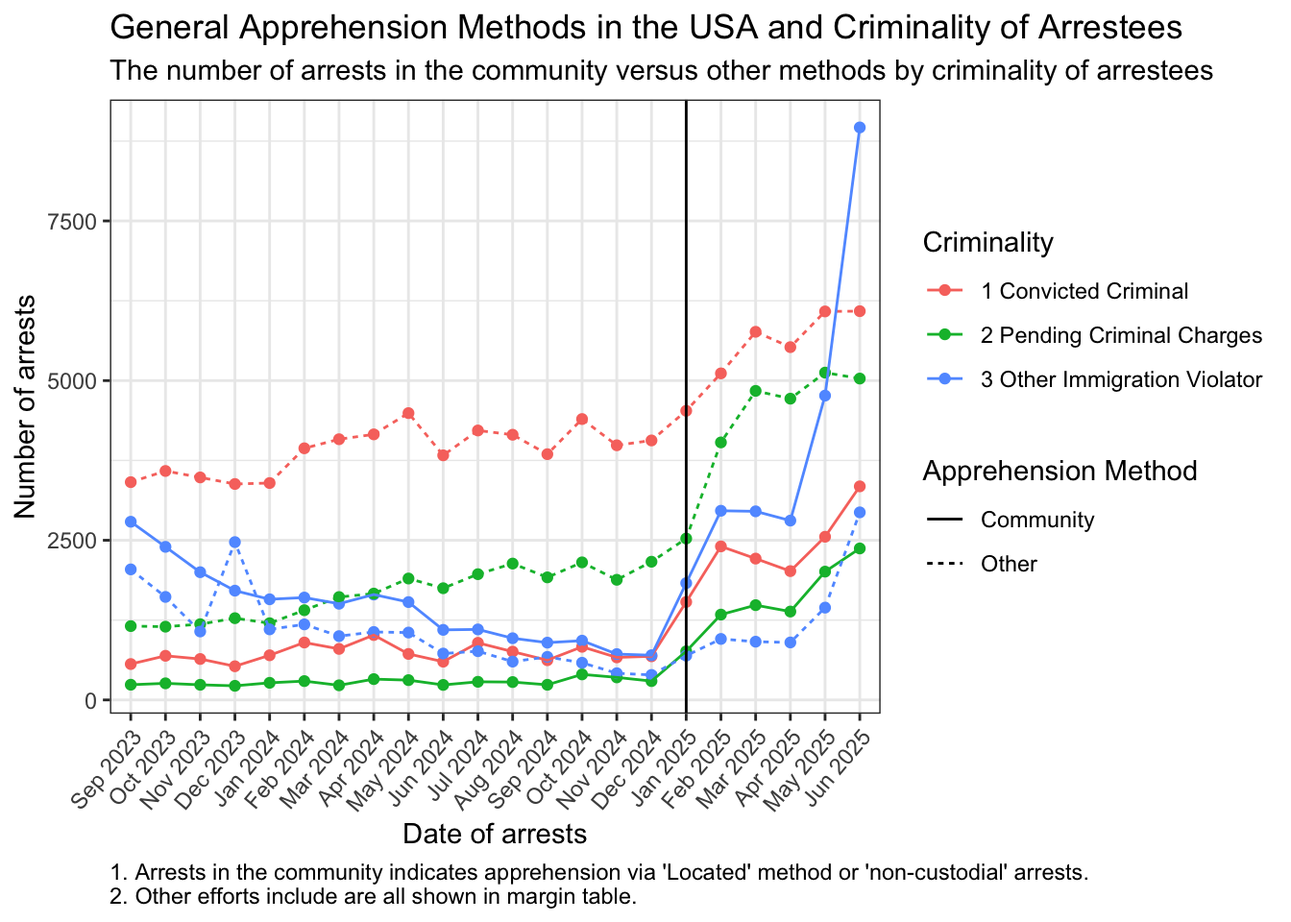
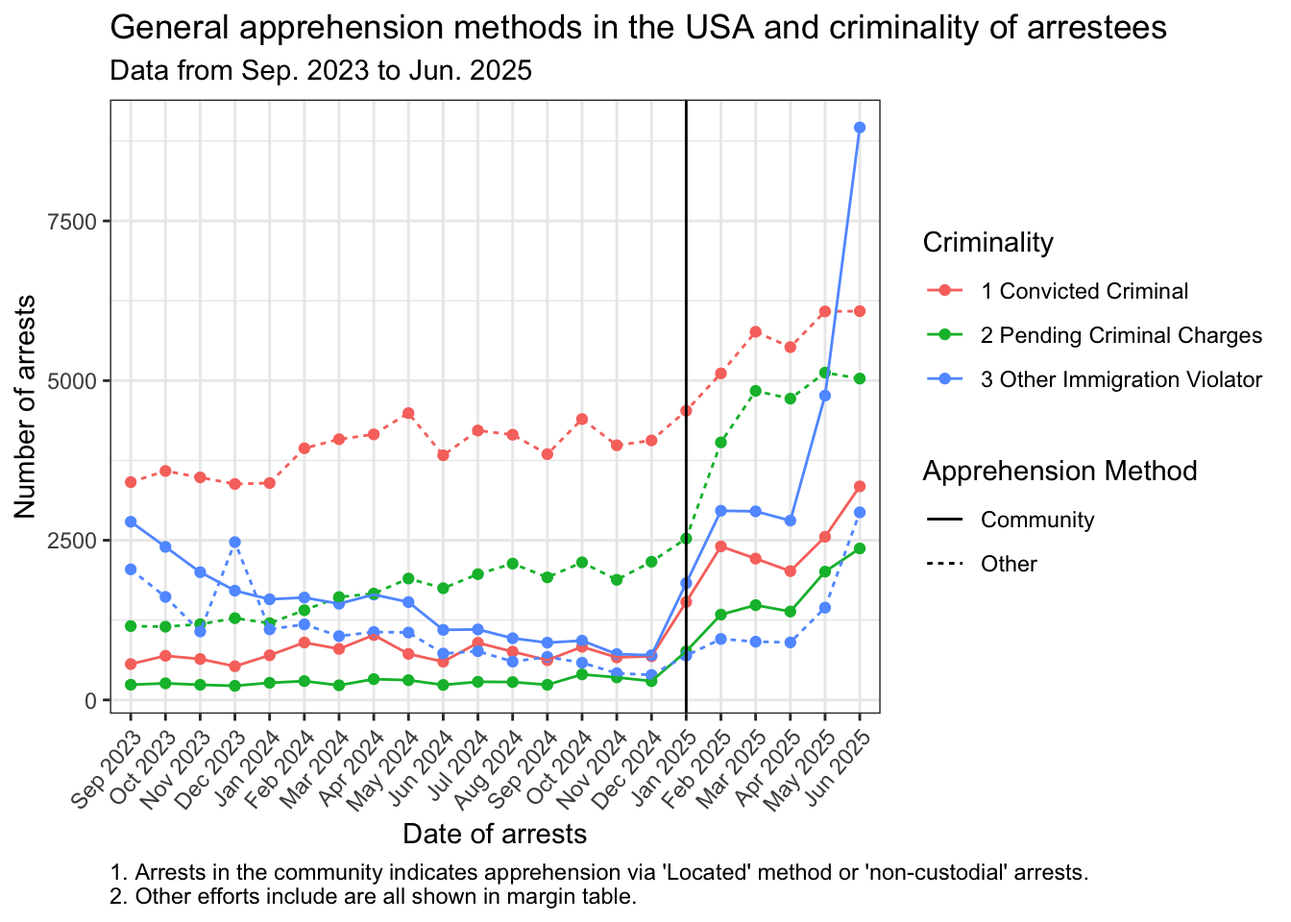
publishing

Changed region(s): [[0.0625, 0.0, 0.9375, 0.0938]]

diff --git a/docs/data-analysis.html b/docs/data-analysis.html
@@ -55,7 +55,27 @@ div.sourceCode
 @media screen {
 pre > code.sourceCode > span > a:first-child::before { text-decoration: underline; }
 }
-</style>
+/* CSS for citations */
+div.csl-bib-body { }
+div.csl-entry {
+  clear: both;
+  margin-bottom: 0em;
+}
+.hanging-indent div.csl-entry {
+  margin-left:2em;
+  text-indent:-2em;
+}
+div.csl-left-margin {
+  min-width:2em;
+  float:left;
+}
+div.csl-right-inline {
+  margin-left:2em;
+  padding-left:1em;
+}
+div.csl-indent {
+  margin-left: 2em;
+}</style>
 
 
 <script src="site_libs/quarto-nav/quarto-nav.js"></script>
@@ -195,8 +215,8 @@ pre > code.sourceCode > span > a:first-child::before { text-decoration: underlin
 
 <section id="introduction" class="level1">
 <h1>Introduction</h1>
-<p>In this analysis, I will use data pertaining to ICE Arrests from Sep.&nbsp;2023 to late Jul.&nbsp;2025. The question I aim to answer is if recent arrests (January 2025 – present)target undocumented individuals with a criminal history, and how they compare to arrests from before January 2025. The target audience is the general public, with anyone interested in seeing how ICE is operating under the current presidential adminstration in comparison to the last one.</p>
-<p>The data comes from <a href="https://deportationdata.org/data/ice.html">The Deportation Data Project</a> and its data dictionary can be found <a href="https://deportationdata.org/docs/ice/codebook.html">here</a>.</p>
+<p>In this analysis, I will use data pertaining to ICE Arrests from Sep.&nbsp;2023 to late Jul.&nbsp;2025. The question I aim to answer is if recent arrests (January 2025 – present) target undocumented individuals with a criminal history, and how they compare to arrests from before January 2025. The target audience is the general public, with anyone interested in seeing how ICE is operating under the current presidential adminstration in comparison to the last one.</p>
+<p>The data comes from the Deportation Data Project <span class="citation" data-cites="deportationdataproject2025">(<a href="#ref-deportationdataproject2025" role="doc-biblioref">Project 2025a</a>)</span>, and its data dictionary can be found <span class="citation" data-cites="deportationdata_ice_codebook">(<a href="#ref-deportationdata_ice_codebook" role="doc-biblioref">Project 2025b</a>)</span>.</p>
 <div class="cell">
 <div class="cell-output-display">
 <div>
@@ -206,6 +226,7 @@ pre > code.sourceCode > span > a:first-child::before { text-decoration: underlin
 </div>
 </div>
 </div>
+<p><span class="citation" data-cites="instagram_author_2025">(Photo by <a href="#ref-instagram_author_2025" role="doc-biblioref">coloralamexicana 2025</a>)</span></p>
 </section>
 <section id="data-wrangling" class="level1">
 <h1>Data Wrangling</h1>
@@ -287,6 +308,7 @@ Note
 <h1>Data Visualization</h1>
 <section id="criminality-of-arestees" class="level2">
 <h2 class="anchored" data-anchor-id="criminality-of-arestees">Criminality of Arestees</h2>
+<p>I first want to see how the criminality of arrestees has changed over time, particularly since January 2025.</p>
 <div class="cell">
 <div class="code-copy-outer-scaffold"><div class="sourceCode cell-code" id="cb3"><pre class="sourceCode r code-with-copy"><code class="sourceCode r"><span id="cb3-1"><a href="#cb3-1" aria-hidden="true" tabindex="-1"></a>arrests <span class="sc">|&gt;</span> </span>
 <span id="cb3-2"><a href="#cb3-2" aria-hidden="true" tabindex="-1"></a>    <span class="fu">filter</span>(apprehension_date_my <span class="sc">!=</span> <span class="st">"Jul 2025"</span>) <span class="sc">|&gt;</span></span>
@@ -318,7 +340,7 @@ Note
 </section>
 <section id="departure-destination-of-arrestees" class="level2">
 <h2 class="anchored" data-anchor-id="departure-destination-of-arrestees">Departure Destination of Arrestees</h2>
-<p>I am interested in seeing where ICE arrestees are being deported under the two different administrations, particularly whether individuals deported to countries other than their country of origin are being sent to destinations within the same continent or not.</p>
+<p>I am interested in examining where ICE arrestees are being deported under the two different administrations. I am also curious to see whether individuals deported to countries other than their country of origin are being sent to destinations within the same continent.</p>
 <p>Four individuals with citizenship from Yugoslavia were deported to other European countries since the nation no longer exists. The destinations were Serbia, North Macedonia, and Montenegro (two cases), all of which are part of what was once Yugoslavia. These cases were categorized under the “Europe” continent for this analysis and not under “Country of Origin”.</p>
 <div class="callout callout-style-default callout-note callout-titled">
 <div class="callout-header d-flex align-content-center">
@@ -452,7 +474,7 @@ Note
 </section>
 <section id="methods-of-apprehension" class="level2 page-columns page-full">
 <h2 class="anchored" data-anchor-id="methods-of-apprehension">Methods of Apprehension</h2>
-<p>California has recently seen a surge in ICE arrests since January 2025. I am interested in seeing the different methods of apprehension used in this state, and how these methods have changed over time.</p>
+<p>News reports have also highlighted an increase in arrests in California. I am interested in seeing the different methods of apprehension used in this state, and how their usage has changed over time.</p>
 <p>In California, the three most common methods of apprehension for undocumented individuals are efforts to locate individuals, non-custodial arrests, and the Criminal Alien Program (CAP). The next most common is an unspecified “other efforts,” which was grouped together with less common methods of apprehension for the purpose of visualization.</p>
 <div class="cell page-columns page-full">
 <div class="code-copy-outer-scaffold"><div class="sourceCode cell-code" id="cb6"><pre class="sourceCode r code-with-copy"><code class="sourceCode r"><span id="cb6-1"><a href="#cb6-1" aria-hidden="true" tabindex="-1"></a>arrests <span class="sc">|&gt;</span> </span>
@@ -578,17 +600,13 @@ Note
 <span id="cb7-17"><a href="#cb7-17" aria-hidden="true" tabindex="-1"></a>        <span class="at">axis.text.x =</span> <span class="fu">element_text</span>(<span class="at">angle =</span> <span class="dv">50</span>, <span class="at">hjust=</span><span class="dv">1</span>),</span>
 <span id="cb7-18"><a href="#cb7-18" aria-hidden="true" tabindex="-1"></a>        <span class="at">plot.caption =</span> <span class="fu">element_text</span>(<span class="at">hjust =</span> <span class="dv">0</span>),</span>
 <span id="cb7-19"><a href="#cb7-19" aria-hidden="true" tabindex="-1"></a>        <span class="at">legend.position =</span> <span class="st">"bottom"</span>) <span class="sc">+</span></span>
-<span id="cb7-20"><a href="#cb7-20" aria-hidden="true" tabindex="-1"></a>    <span class="fu">labs</span>(<span class="at">title =</span> <span class="st">"Apprehension Methods in California"</span>,</span>
-<span id="cb7-21"><a href="#cb7-21" aria-hidden="true" tabindex="-1"></a>         <span class="at">subtitle =</span> <span class="st">"Most common methods ICE has used to apprehend undocumented individuals in California"</span>,</span>
+<span id="cb7-20"><a href="#cb7-20" aria-hidden="true" tabindex="-1"></a>    <span class="fu">labs</span>(<span class="at">title =</span> <span class="st">"Apprehension methods in California"</span>,</span>
+<span id="cb7-21"><a href="#cb7-21" aria-hidden="true" tabindex="-1"></a>         <span class="at">subtitle =</span> <span class="st">"Data from Sep. 2023 to Jun. 2025"</span>,</span>
 <span id="cb7-22"><a href="#cb7-22" aria-hidden="true" tabindex="-1"></a>         <span class="at">caption =</span> <span class="st">"1. CAP Incarceration indicates that the individual was apprehended while incarcerated in a local, state, or </span><span class="sc">\n</span><span class="st">    federal jail or prison under CAP.</span><span class="sc">\n</span><span class="st">2. Located indicates the individual was apprehended by ICE while not in custody.</span><span class="sc">\n</span><span class="st">3. Non-Custodial Arrest indicates that the individual was apprehended in the community rather than a detention facility.</span><span class="sc">\n</span><span class="st">4. Other efforts include less common methods and are all shown in margin table."</span>,</span>
 <span id="cb7-23"><a href="#cb7-23" aria-hidden="true" tabindex="-1"></a>         <span class="at">x =</span> <span class="st">"Date of arrests"</span>, </span>
 <span id="cb7-24"><a href="#cb7-24" aria-hidden="true" tabindex="-1"></a>         <span class="at">y =</span> <span class="st">"Number of arrests"</span>,</span>
 <span id="cb7-25"><a href="#cb7-25" aria-hidden="true" tabindex="-1"></a>         <span class="at">color =</span> <span class="st">"Apprehension Method"</span>) <span class="sc">+</span> </span>
 <span id="cb7-26"><a href="#cb7-26" aria-hidden="true" tabindex="-1"></a>    <span class="fu">geom_vline</span>(<span class="at">xintercept =</span> <span class="st">"Jan 2025"</span>)</span></code></pre></div><button title="Copy to Clipboard" class="code-copy-button"><i class="bi"></i></button></div>
-<div class="cell-output cell-output-stderr">
-<pre><code>`summarise()` has grouped output by 'apprehension_date_my'. You can override
-using the `.groups` argument.</code></pre>
-</div>
 <div class="cell-output-display">
 <div>
 <figure class="figure">
@@ -598,36 +616,32 @@ using the `.groups` argument.</code></pre>
 </div>
 </div>
 <div class="cell">
-<div class="code-copy-outer-scaffold"><div class="sourceCode cell-code" id="cb9"><pre class="sourceCode r code-with-copy"><code class="sourceCode r"><span id="cb9-1"><a href="#cb9-1" aria-hidden="true" tabindex="-1"></a>arrests <span class="sc">|&gt;</span> </span>
-<span id="cb9-2"><a href="#cb9-2" aria-hidden="true" tabindex="-1"></a>    <span class="fu">mutate</span>(</span>
-<span id="cb9-3"><a href="#cb9-3" aria-hidden="true" tabindex="-1"></a>        <span class="at">apprehension_method =</span> <span class="fu">case_when</span>(</span>
-<span id="cb9-4"><a href="#cb9-4" aria-hidden="true" tabindex="-1"></a>            apprehension_method <span class="sc">%in%</span> <span class="fu">c</span>(<span class="st">"Non-Custodial Arrest"</span>, <span class="st">"Located"</span>) <span class="sc">~</span> <span class="st">"Community"</span>,</span>
-<span id="cb9-5"><a href="#cb9-5" aria-hidden="true" tabindex="-1"></a>            <span class="cn">TRUE</span> <span class="sc">~</span> <span class="st">"Other"</span>)) <span class="sc">|&gt;</span> </span>
-<span id="cb9-6"><a href="#cb9-6" aria-hidden="true" tabindex="-1"></a>    <span class="fu">group_by</span>(apprehension_date_my, apprehension_method,apprehension_criminality) <span class="sc">|&gt;</span> </span>
-<span id="cb9-7"><a href="#cb9-7" aria-hidden="true" tabindex="-1"></a>    <span class="fu">summarise</span>(<span class="at">count =</span> <span class="fu">n</span>()) <span class="sc">|&gt;</span> </span>
-<span id="cb9-8"><a href="#cb9-8" aria-hidden="true" tabindex="-1"></a>    <span class="fu">ggplot</span>(</span>
-<span id="cb9-9"><a href="#cb9-9" aria-hidden="true" tabindex="-1"></a>        <span class="fu">aes</span>(<span class="at">x =</span> apprehension_date_my, <span class="at">y =</span> count,</span>
-<span id="cb9-10"><a href="#cb9-10" aria-hidden="true" tabindex="-1"></a>            <span class="at">color =</span> apprehension_criminality, <span class="at">linetype =</span> apprehension_method,</span>
-<span id="cb9-11"><a href="#cb9-11" aria-hidden="true" tabindex="-1"></a>            <span class="at">group =</span> <span class="fu">interaction</span>(apprehension_method, apprehension_criminality))) <span class="sc">+</span></span>
-<span id="cb9-12"><a href="#cb9-12" aria-hidden="true" tabindex="-1"></a>    <span class="fu">geom_point</span>() <span class="sc">+</span> </span>
-<span id="cb9-13"><a href="#cb9-13" aria-hidden="true" tabindex="-1"></a>    <span class="fu">geom_line</span>() <span class="sc">+</span> </span>
-<span id="cb9-14"><a href="#cb9-14" aria-hidden="true" tabindex="-1"></a>    <span class="fu">theme_bw</span>() <span class="sc">+</span> </span>
-<span id="cb9-15"><a href="#cb9-15" aria-hidden="true" tabindex="-1"></a>    <span class="fu">theme</span>(</span>
-<span id="cb9-16"><a href="#cb9-16" aria-hidden="true" tabindex="-1"></a>        <span class="at">axis.text.x =</span> <span class="fu">element_text</span>(<span class="at">angle =</span> <span class="dv">50</span>, <span class="at">hjust=</span><span class="dv">1</span>),</span>
-<span id="cb9-17"><a href="#cb9-17" aria-hidden="true" tabindex="-1"></a>        <span class="at">plot.caption =</span> <span class="fu">element_text</span>(<span class="at">hjust =</span> <span class="dv">0</span>),</span>
-<span id="cb9-18"><a href="#cb9-18" aria-hidden="true" tabindex="-1"></a>        <span class="at">legend.position =</span> <span class="st">"right"</span>) <span class="sc">+</span></span>
-<span id="cb9-19"><a href="#cb9-19" aria-hidden="true" tabindex="-1"></a>    <span class="fu">labs</span>(<span class="at">title =</span> <span class="st">"General Apprehension Methods in the USA and Criminality of Arrestees"</span>,</span>
-<span id="cb9-20"><a href="#cb9-20" aria-hidden="true" tabindex="-1"></a>         <span class="at">subtitle =</span> <span class="st">"The number of arrests in the community versus other methods by criminality of arrestees"</span>,</span>
-<span id="cb9-21"><a href="#cb9-21" aria-hidden="true" tabindex="-1"></a>         <span class="at">caption =</span> <span class="st">"1. Arrests in the community indicates apprehension via 'Located' method or 'non-custodial' arrests. </span><span class="sc">\n</span><span class="st">2. Other efforts include are all shown in margin table."</span>,</span>
-<span id="cb9-22"><a href="#cb9-22" aria-hidden="true" tabindex="-1"></a>         <span class="at">x =</span> <span class="st">"Date of arrests"</span>, </span>
-<span id="cb9-23"><a href="#cb9-23" aria-hidden="true" tabindex="-1"></a>         <span class="at">y =</span> <span class="st">"Number of arrests"</span>,</span>
-<span id="cb9-24"><a href="#cb9-24" aria-hidden="true" tabindex="-1"></a>         <span class="at">color =</span> <span class="st">"Criminality"</span>,</span>
-<span id="cb9-25"><a href="#cb9-25" aria-hidden="true" tabindex="-1"></a>         <span class="at">linetype =</span> <span class="st">"Apprehension Method"</span>) <span class="sc">+</span> </span>
-<span id="cb9-26"><a href="#cb9-26" aria-hidden="true" tabindex="-1"></a>    <span class="fu">geom_vline</span>(<span class="at">xintercept =</span> <span class="st">"Jan 2025"</span>)</span></code></pre></div><button title="Copy to Clipboard" class="code-copy-button"><i class="bi"></i></button></div>
-<div class="cell-output cell-output-stderr">
-<pre><code>`summarise()` has grouped output by 'apprehension_date_my',
-'apprehension_method'. You can override using the `.groups` argument.</code></pre>
-</div>
+<div class="code-copy-outer-scaffold"><div class="sourceCode cell-code" id="cb8"><pre class="sourceCode r code-with-copy"><code class="sourceCode r"><span id="cb8-1"><a href="#cb8-1" aria-hidden="true" tabindex="-1"></a>arrests <span class="sc">|&gt;</span> </span>
+<span id="cb8-2"><a href="#cb8-2" aria-hidden="true" tabindex="-1"></a>    <span class="fu">mutate</span>(</span>
+<span id="cb8-3"><a href="#cb8-3" aria-hidden="true" tabindex="-1"></a>        <span class="at">apprehension_method =</span> <span class="fu">case_when</span>(</span>
+<span id="cb8-4"><a href="#cb8-4" aria-hidden="true" tabindex="-1"></a>            apprehension_method <span class="sc">%in%</span> <span class="fu">c</span>(<span class="st">"Non-Custodial Arrest"</span>, <span class="st">"Located"</span>) <span class="sc">~</span> <span class="st">"Community"</span>,</span>
+<span id="cb8-5"><a href="#cb8-5" aria-hidden="true" tabindex="-1"></a>            <span class="cn">TRUE</span> <span class="sc">~</span> <span class="st">"Other"</span>)) <span class="sc">|&gt;</span> </span>
+<span id="cb8-6"><a href="#cb8-6" aria-hidden="true" tabindex="-1"></a>    <span class="fu">group_by</span>(apprehension_date_my, apprehension_method,apprehension_criminality) <span class="sc">|&gt;</span> </span>
+<span id="cb8-7"><a href="#cb8-7" aria-hidden="true" tabindex="-1"></a>    <span class="fu">summarise</span>(<span class="at">count =</span> <span class="fu">n</span>()) <span class="sc">|&gt;</span> </span>
+<span id="cb8-8"><a href="#cb8-8" aria-hidden="true" tabindex="-1"></a>    <span class="fu">ggplot</span>(</span>
+<span id="cb8-9"><a href="#cb8-9" aria-hidden="true" tabindex="-1"></a>        <span class="fu">aes</span>(<span class="at">x =</span> apprehension_date_my, <span class="at">y =</span> count,</span>
+<span id="cb8-10"><a href="#cb8-10" aria-hidden="true" tabindex="-1"></a>            <span class="at">color =</span> apprehension_criminality, <span class="at">linetype =</span> apprehension_method,</span>
+<span id="cb8-11"><a href="#cb8-11" aria-hidden="true" tabindex="-1"></a>            <span class="at">group =</span> <span class="fu">interaction</span>(apprehension_method, apprehension_criminality))) <span class="sc">+</span></span>
+<span id="cb8-12"><a href="#cb8-12" aria-hidden="true" tabindex="-1"></a>    <span class="fu">geom_point</span>() <span class="sc">+</span> </span>
+<span id="cb8-13"><a href="#cb8-13" aria-hidden="true" tabindex="-1"></a>    <span class="fu">geom_line</span>() <span class="sc">+</span> </span>
+<span id="cb8-14"><a href="#cb8-14" aria-hidden="true" tabindex="-1"></a>    <span class="fu">theme_bw</span>() <span class="sc">+</span> </span>
+<span id="cb8-15"><a href="#cb8-15" aria-hidden="true" tabindex="-1"></a>    <span class="fu">theme</span>(</span>
+<span id="cb8-16"><a href="#cb8-16" aria-hidden="true" tabindex="-1"></a>        <span class="at">axis.text.x =</span> <span class="fu">element_text</span>(<span class="at">angle =</span> <span class="dv">50</span>, <span class="at">hjust=</span><span class="dv">1</span>),</span>
+<span id="cb8-17"><a href="#cb8-17" aria-hidden="true" tabindex="-1"></a>        <span class="at">plot.caption =</span> <span class="fu">element_text</span>(<span class="at">hjust =</span> <span class="dv">0</span>),</span>
+<span id="cb8-18"><a href="#cb8-18" aria-hidden="true" tabindex="-1"></a>        <span class="at">legend.position =</span> <span class="st">"right"</span>) <span class="sc">+</span></span>
+<span id="cb8-19"><a href="#cb8-19" aria-hidden="true" tabindex="-1"></a>    <span class="fu">labs</span>(<span class="at">title =</span> <span class="st">"General apprehension methods in the USA and criminality of arrestees"</span>,</span>
+<span id="cb8-20"><a href="#cb8-20" aria-hidden="true" tabindex="-1"></a>         <span class="at">subtitle =</span> <span class="st">"Data from Sep. 2023 to Jun. 2025"</span>,</span>
+<span id="cb8-21"><a href="#cb8-21" aria-hidden="true" tabindex="-1"></a>         <span class="at">caption =</span> <span class="st">"1. Arrests in the community indicates apprehension via 'Located' method or 'non-custodial' arrests. </span><span class="sc">\n</span><span class="st">2. Other efforts include are all shown in margin table."</span>,</span>
+<span id="cb8-22"><a href="#cb8-22" aria-hidden="true" tabindex="-1"></a>         <span class="at">x =</span> <span class="st">"Date of arrests"</span>, </span>
+<span id="cb8-23"><a href="#cb8-23" aria-hidden="true" tabindex="-1"></a>         <span class="at">y =</span> <span class="st">"Number of arrests"</span>,</span>
+<span id="cb8-24"><a href="#cb8-24" aria-hidden="true" tabindex="-1"></a>         <span class="at">color =</span> <span class="st">"Criminality"</span>,</span>
+<span id="cb8-25"><a href="#cb8-25" aria-hidden="true" tabindex="-1"></a>         <span class="at">linetype =</span> <span class="st">"Apprehension Method"</span>) <span class="sc">+</span> </span>
+<span id="cb8-26"><a href="#cb8-26" aria-hidden="true" tabindex="-1"></a>    <span class="fu">geom_vline</span>(<span class="at">xintercept =</span> <span class="st">"Jan 2025"</span>)</span></code></pre></div><button title="Copy to Clipboard" class="code-copy-button"><i class="bi"></i></button></div>
 <div class="cell-output-display">
 <div>
 <figure class="figure">
@@ -637,18 +651,19 @@ using the `.groups` argument.</code></pre>
 </div>
 </div>
 </section>
-<section id="age-distribution-of-arestess" class="level2">
+<section id="age-distribution-of-arestess" class="level2 page-columns page-full">
 <h2 class="anchored" data-anchor-id="age-distribution-of-arestess">Age Distribution of Arestess</h2>
-<div class="cell">
-<div class="code-copy-outer-scaffold"><div class="sourceCode cell-code" id="cb11"><pre class="sourceCode r code-with-copy"><code class="sourceCode r"><span id="cb11-1"><a href="#cb11-1" aria-hidden="true" tabindex="-1"></a><span class="co"># | column: margin</span></span>
-<span id="cb11-2"><a href="#cb11-2" aria-hidden="true" tabindex="-1"></a>arrests <span class="sc">|&gt;</span> </span>
-<span id="cb11-3"><a href="#cb11-3" aria-hidden="true" tabindex="-1"></a>    <span class="fu">filter</span>(birth_year<span class="sc">&gt;=</span><span class="dv">2000</span>) <span class="sc">|&gt;</span> </span>
-<span id="cb11-4"><a href="#cb11-4" aria-hidden="true" tabindex="-1"></a>    <span class="fu">mutate</span>(<span class="at">relative_age =</span> <span class="dv">2025</span> <span class="sc">-</span> birth_year) <span class="sc">|&gt;</span> </span>
-<span id="cb11-5"><a href="#cb11-5" aria-hidden="true" tabindex="-1"></a>    <span class="fu">rename</span>(<span class="at">Administration =</span> administration) <span class="sc">|&gt;</span></span>
-<span id="cb11-6"><a href="#cb11-6" aria-hidden="true" tabindex="-1"></a>    <span class="fu">group_by</span>(Administration) <span class="sc">|&gt;</span> </span>
-<span id="cb11-7"><a href="#cb11-7" aria-hidden="true" tabindex="-1"></a>    <span class="fu">summarise</span>(<span class="st">`</span><span class="at">Median Age</span><span class="st">`</span> <span class="ot">=</span> <span class="fu">median</span>(relative_age)) <span class="sc">|&gt;</span> </span>
-<span id="cb11-8"><a href="#cb11-8" aria-hidden="true" tabindex="-1"></a>    knitr<span class="sc">::</span><span class="fu">kable</span>()</span></code></pre></div><button title="Copy to Clipboard" class="code-copy-button"><i class="bi"></i></button></div>
-<div class="cell-output-display">
+<p>I am also interested in examining the age distribution of arrestees under the two administrations, particularly among younger individuals. I will focus on arrestees born in 2000 or later (age 25 or younger in 2025).</p>
+<div class="cell page-columns page-full">
+<div class="code-copy-outer-scaffold"><div class="sourceCode cell-code" id="cb9"><pre class="sourceCode r code-with-copy"><code class="sourceCode r"><span id="cb9-1"><a href="#cb9-1" aria-hidden="true" tabindex="-1"></a>arrests <span class="sc">|&gt;</span> </span>
+<span id="cb9-2"><a href="#cb9-2" aria-hidden="true" tabindex="-1"></a>    <span class="fu">filter</span>(birth_year<span class="sc">&gt;=</span><span class="dv">2000</span>) <span class="sc">|&gt;</span> </span>
+<span id="cb9-3"><a href="#cb9-3" aria-hidden="true" tabindex="-1"></a>    <span class="fu">mutate</span>(<span class="at">relative_age =</span> <span class="dv">2025</span> <span class="sc">-</span> birth_year) <span class="sc">|&gt;</span> </span>
+<span id="cb9-4"><a href="#cb9-4" aria-hidden="true" tabindex="-1"></a>    <span class="fu">rename</span>(<span class="at">Administration =</span> administration) <span class="sc">|&gt;</span></span>
+<span id="cb9-5"><a href="#cb9-5" aria-hidden="true" tabindex="-1"></a>    <span class="fu">group_by</span>(Administration) <span class="sc">|&gt;</span> </span>
+<span id="cb9-6"><a href="#cb9-6" aria-hidden="true" tabindex="-1"></a>    <span class="fu">summarise</span>(<span class="st">`</span><span class="at">Median Age</span><span class="st">`</span> <span class="ot">=</span> <span class="fu">median</span>(relative_age)) <span class="sc">|&gt;</span> </span>
+<span id="cb9-7"><a href="#cb9-7" aria-hidden="true" tabindex="-1"></a>    knitr<span class="sc">::</span><span class="fu">kable</span>()</span></code></pre></div><button title="Copy to Clipboard" class="code-copy-button"><i class="bi"></i></button></div>
+
+<div class="no-row-height column-margin column-container"><div class="cell-output-display">
 <table class="caption-top table table-sm table-striped small">
 <thead>
 <tr class="header">
@@ -667,23 +682,22 @@ using the `.groups` argument.</code></pre>
 </tr>
 </tbody>
 </table>
-</div>
-</div>
+</div></div></div>
 <div class="cell">
-<div class="code-copy-outer-scaffold"><div class="sourceCode cell-code" id="cb12"><pre class="sourceCode r code-with-copy"><code class="sourceCode r"><span id="cb12-1"><a href="#cb12-1" aria-hidden="true" tabindex="-1"></a>arrests <span class="sc">|&gt;</span> </span>
-<span id="cb12-2"><a href="#cb12-2" aria-hidden="true" tabindex="-1"></a>    <span class="fu">filter</span>(birth_year <span class="sc">&gt;=</span> <span class="dv">2000</span>) <span class="sc">|&gt;</span> </span>
-<span id="cb12-3"><a href="#cb12-3" aria-hidden="true" tabindex="-1"></a>    <span class="fu">mutate</span>(</span>
-<span id="cb12-4"><a href="#cb12-4" aria-hidden="true" tabindex="-1"></a>        <span class="at">relative_age =</span> <span class="dv">2025</span> <span class="sc">-</span> birth_year,</span>
-<span id="cb12-5"><a href="#cb12-5" aria-hidden="true" tabindex="-1"></a>        <span class="at">administration =</span> <span class="fu">factor</span>(administration, <span class="at">levels =</span> <span class="fu">c</span>(<span class="st">"Trump"</span>, <span class="st">"Biden"</span>))) <span class="sc">|&gt;</span></span>
-<span id="cb12-6"><a href="#cb12-6" aria-hidden="true" tabindex="-1"></a>    <span class="fu">ggplot</span>(<span class="fu">aes</span>(<span class="at">x =</span> relative_age, <span class="at">y =</span> administration, <span class="at">fill =</span> administration)) <span class="sc">+</span></span>
-<span id="cb12-7"><a href="#cb12-7" aria-hidden="true" tabindex="-1"></a>    <span class="fu">geom_violin</span>(<span class="at">alpha =</span> <span class="fl">0.3</span>) <span class="sc">+</span></span>
-<span id="cb12-8"><a href="#cb12-8" aria-hidden="true" tabindex="-1"></a>    <span class="fu">geom_boxplot</span>(<span class="at">width =</span> <span class="fl">0.15</span>) <span class="sc">+</span></span>
-<span id="cb12-9"><a href="#cb12-9" aria-hidden="true" tabindex="-1"></a>    <span class="fu">theme_bw</span>() <span class="sc">+</span></span>
-<span id="cb12-10"><a href="#cb12-10" aria-hidden="true" tabindex="-1"></a>    <span class="fu">theme</span>(<span class="at">legend.position =</span> <span class="st">"none"</span>) <span class="sc">+</span></span>
-<span id="cb12-11"><a href="#cb12-11" aria-hidden="true" tabindex="-1"></a>    <span class="fu">labs</span>(<span class="at">title =</span> <span class="st">"Distribution of Ages by Administration"</span>,</span>
-<span id="cb12-12"><a href="#cb12-12" aria-hidden="true" tabindex="-1"></a>         <span class="at">x =</span> <span class="st">"Age"</span>,</span>
-<span id="cb12-13"><a href="#cb12-13" aria-hidden="true" tabindex="-1"></a>         <span class="at">y =</span> <span class="st">"Administration"</span></span>
-<span id="cb12-14"><a href="#cb12-14" aria-hidden="true" tabindex="-1"></a>        )</span></code></pre></div><button title="Copy to Clipboard" class="code-copy-button"><i class="bi"></i></button></div>
+<div class="code-copy-outer-scaffold"><div class="sourceCode cell-code" id="cb10"><pre class="sourceCode r code-with-copy"><code class="sourceCode r"><span id="cb10-1"><a href="#cb10-1" aria-hidden="true" tabindex="-1"></a>arrests <span class="sc">|&gt;</span> </span>
+<span id="cb10-2"><a href="#cb10-2" aria-hidden="true" tabindex="-1"></a>    <span class="fu">filter</span>(birth_year <span class="sc">&gt;=</span> <span class="dv">2000</span>) <span class="sc">|&gt;</span> </span>
+<span id="cb10-3"><a href="#cb10-3" aria-hidden="true" tabindex="-1"></a>    <span class="fu">mutate</span>(</span>
+<span id="cb10-4"><a href="#cb10-4" aria-hidden="true" tabindex="-1"></a>        <span class="at">relative_age =</span> <span class="dv">2025</span> <span class="sc">-</span> birth_year,</span>
+<span id="cb10-5"><a href="#cb10-5" aria-hidden="true" tabindex="-1"></a>        <span class="at">administration =</span> <span class="fu">factor</span>(administration, <span class="at">levels =</span> <span class="fu">c</span>(<span class="st">"Trump"</span>, <span class="st">"Biden"</span>))) <span class="sc">|&gt;</span></span>
+<span id="cb10-6"><a href="#cb10-6" aria-hidden="true" tabindex="-1"></a>    <span class="fu">ggplot</span>(<span class="fu">aes</span>(<span class="at">x =</span> relative_age, <span class="at">y =</span> administration, <span class="at">fill =</span> administration)) <span class="sc">+</span></span>
+<span id="cb10-7"><a href="#cb10-7" aria-hidden="true" tabindex="-1"></a>    <span class="fu">geom_violin</span>(<span class="at">alpha =</span> <span class="fl">0.3</span>) <span class="sc">+</span></span>
+<span id="cb10-8"><a href="#cb10-8" aria-hidden="true" tabindex="-1"></a>    <span class="fu">geom_boxplot</span>(<span class="at">width =</span> <span class="fl">0.15</span>) <span class="sc">+</span></span>
+<span id="cb10-9"><a href="#cb10-9" aria-hidden="true" tabindex="-1"></a>    <span class="fu">theme_bw</span>() <span class="sc">+</span></span>
+<span id="cb10-10"><a href="#cb10-10" aria-hidden="true" tabindex="-1"></a>    <span class="fu">theme</span>(<span class="at">legend.position =</span> <span class="st">"none"</span>) <span class="sc">+</span></span>
+<span id="cb10-11"><a href="#cb10-11" aria-hidden="true" tabindex="-1"></a>    <span class="fu">labs</span>(<span class="at">title =</span> <span class="st">"Distribution of Ages by Administration"</span>,</span>
+<span id="cb10-12"><a href="#cb10-12" aria-hidden="true" tabindex="-1"></a>         <span class="at">x =</span> <span class="st">"Age"</span>,</span>
+<span id="cb10-13"><a href="#cb10-13" aria-hidden="true" tabindex="-1"></a>         <span class="at">y =</span> <span class="st">"Administration"</span></span>
+<span id="cb10-14"><a href="#cb10-14" aria-hidden="true" tabindex="-1"></a>        )</span></code></pre></div><button title="Copy to Clipboard" class="code-copy-button"><i class="bi"></i></button></div>
 <div class="cell-output-display">
 <div>
 <figure class="figure">
@@ -698,10 +712,10 @@ using the `.groups` argument.</code></pre>
 <h1>Conclusion</h1>
 <p>Since January 2025, the number of ICE arrests has notably increased across the U.S. There has been a shift in the criminality of arrestees, with a larger number of individuals with no criminal history being more targeted compared to previous periods. The number of arrests of individuals with criminal convictions or pending charges has remained relatively stable within each administration.</p>
 <p>In the news, reports have highlighted cases of people being deported to countries other than their own under the current administration. Across both administrations, I saw that the majority of arrestees are still being deported to their country of origin, and there is no visible difference. When examining the proportions of individuals deported to other destinations, there is a 1.7% difference between the two administrations (Biden: 1.5%, Trump: 3.2%).</p>
-<p>News reports have also highlighted an increase in arrests in California. When examining the methods of apprehension used in the state, there has been a noticeable rise in non-custodial arrests and those using the “Located” method since January 2025. Historically, since September 2023, ICE primarily relied on CAP incarceration to apprehend undocumented individuals in California, but this changed in May 2025.</p>
+<p>When examining the methods of apprehension used in California, there has been a noticeable rise in non-custodial arrests and those using the “Located” method since January 2025. Historically, since September 2023, ICE primarily relied on CAP incarceration to apprehend undocumented individuals in California, but this changed in May 2025.</p>
 <p>I then decided to examine apprehension methods across the USA. According to the Deportation Data Project, the terms “Located” and “Non-Custodial Arrest” refer to arrests in the community, such as raids. I am interested in analyzing how these community-based apprehension methods have been used, particularly with respect to the criminality of the arrestees. Since January 2025, community-based apprehensions of individuals with no criminal history have increased drastically, while other methods have remained relatively stable within the current administration. In June 2025, ICE’s use of these community-based methods to apprehend non-criminal individuals surpassed all other combinations of apprehension method and criminality.</p>
-<p>Finally, I examined differences in the age distribution of arrestees under the two administrations, focusing on younger individuals. Among arrestees under 25, there does not appear to be a noticeable difference in the distribution between administrations. The median age for the Biden administration is slightly lower at 22 years, compared to 23 years for the Trump administration.</p>
-<p>Back to my original question, it appears that ICE arrests since January 2025 have increasingly targeted undocumented individuals without a criminal history.</p>
+<p>When examining the age distributions of arrestees under the two administrations, there does not appear to be a noticeable difference between administrations. The median age for the Biden administration is slightly lower at 22 years, compared to 23 years for the Trump administration.</p>
+<p>Back to my original question, it appears that ICE arrests since January 2025 have increasingly targeted undocumented individuals without a criminal history. I also want to acknowledge that this analysis was inspired by this post from Dr.&nbsp;Jean Fan <span class="citation" data-cites="fan2025bsky">(<a href="#ref-fan2025bsky" role="doc-biblioref">(@jef.works) 2025</a>)</span> that was shown in 140.776.</p>
 </section>
 <section id="references" class="level1">
 <h1>References</h1>
@@ -714,9 +728,23 @@ using the `.groups` argument.</code></pre>
 </ul>
 
 
+
 </section>
 
-</main> <!-- /main -->
+<div id="quarto-appendix" class="default"><section class="quarto-appendix-contents" role="doc-bibliography" id="quarto-bibliography"><h2 class="anchored quarto-appendix-heading">References</h2><div id="refs" class="references csl-bib-body hanging-indent" data-entry-spacing="0" role="list">
+<div id="ref-instagram_author_2025" class="csl-entry" role="listitem">
+coloralamexicana. 2025. <span>“Picture of Protest Against ICE in Chicago.”</span> <a href="https://www.instagram.com/p/DPePD1YEczx/?hl=en&amp;img_index=1">https://www.instagram.com/p/DPePD1YEczx/?hl=en&amp;img_index=1</a>.
+</div>
+<div id="ref-fan2025bsky" class="csl-entry" role="listitem">
+(@jef.works), Dr. Jean Fan. 2025. <span>“<span>‘#RStats to Explore Publicly Available ICE Arrest Data’</span>.”</span> <a href="https://web-cdn.bsky.app/profile/jef.works/post/3lztdtdmles2q">https://web-cdn.bsky.app/profile/jef.works/post/3lztdtdmles2q</a>.
+</div>
+<div id="ref-deportationdataproject2025" class="csl-entry" role="listitem">
+Project, Deportation Data. 2025a. <span>“Deportation Data Project Homepage.”</span> <a href="https://deportationdata.org/">https://deportationdata.org/</a>.
+</div>
+<div id="ref-deportationdata_ice_codebook" class="csl-entry" role="listitem">
+———. 2025b. <span>“ICE Data Codebook.”</span> <a href="https://deportationdata.org/docs/ice.html">https://deportationdata.org/docs/ice.html</a>.
+</div>
+</div></section></div></main> <!-- /main -->
 <script id="quarto-html-after-body" type="application/javascript">
   window.document.addEventListener("DOMContentLoaded", function (event) {
     const icon = "";

diff --git a/docs/about.html b/docs/about.html
@@ -149,10 +149,10 @@ ul.task-list li input[type="checkbox"] {
 
 <section id="education" class="level2">
 <h2 class="anchored" data-anchor-id="education">Education</h2>
-<p><span style="color:blue;">Johns Hopkins, Bloomberg School of Public Health</span> , <em>Baltimore, MD</em></p>
-<p>Sc.M. in Biostatistics, <em>Expected: May 2027</em></p>
-<p><span style="color:red;">The University of Georgia</span> , <em>Athens, GA</em></p>
-<p>B.S. in Statistics and Minor in Public Health, <em>May 2025</em></p>
+<p><span style="color:blue; font-weight:bold;">Johns Hopkins, Bloomberg School of Public Health</span>, <em>Baltimore, MD</em><br>
+<strong>Sc.M. in Biostatistics</strong>, <em>Expected: May 2027</em></p>
+<p><span style="color:red; font-weight:bold;">The University of Georgia</span>, <em>Athens, GA</em><br>
+<strong>B.S. in Statistics and Minor in Public Health</strong>, <em>May 2025</em></p>
 </section>
 <section id="research-interests" class="level2">
 <h2 class="anchored" data-anchor-id="research-interests">Research interests</h2>
